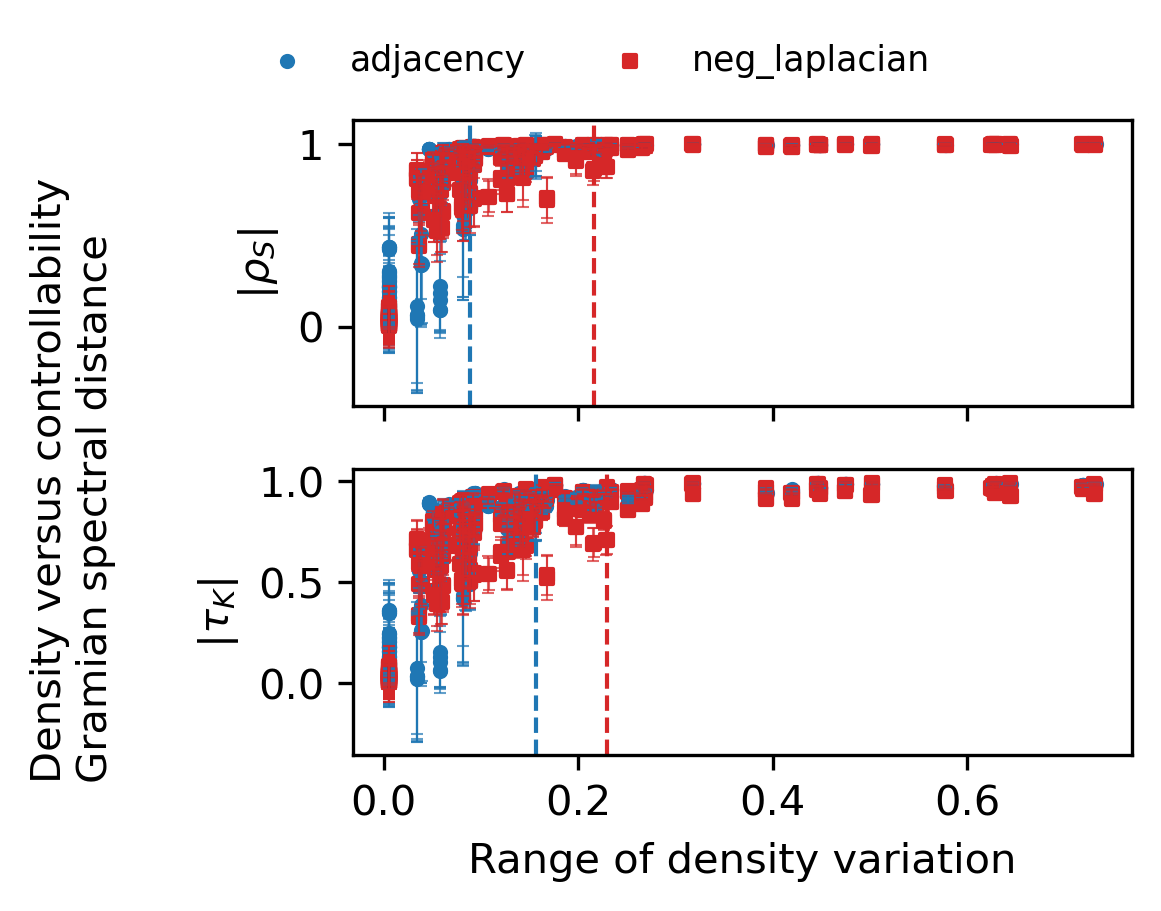
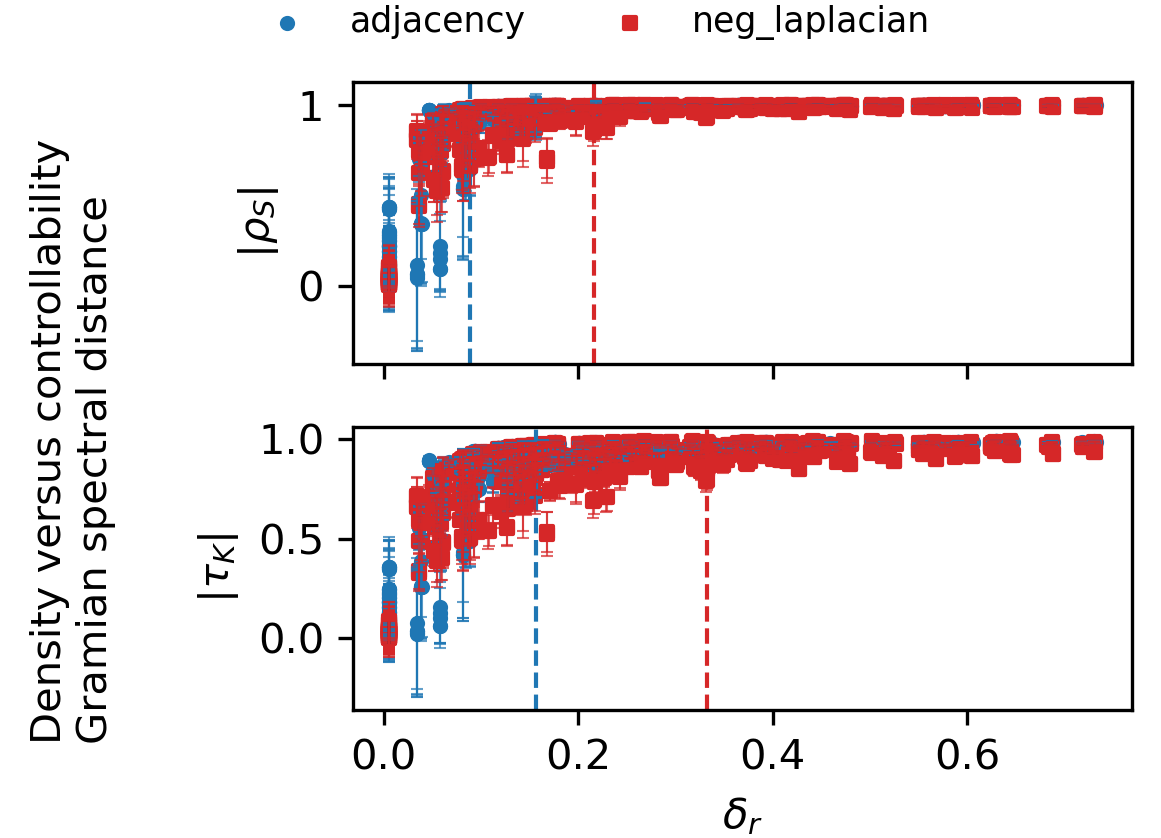
updated figures

diff --git a/plot_results.py b/plot_results.py
@@ -408,7 +408,7 @@ def make_scatter_plot(
         else:
             ax.set_ylabel(y_label_text + '\n' + ylabel)
 
-    axes[-1].set_xlabel("Range of density variation")
+    axes[-1].set_xlabel("$\delta_r$")
 
     # One shared legend in a single row at the top of all plots
     fig.legend(